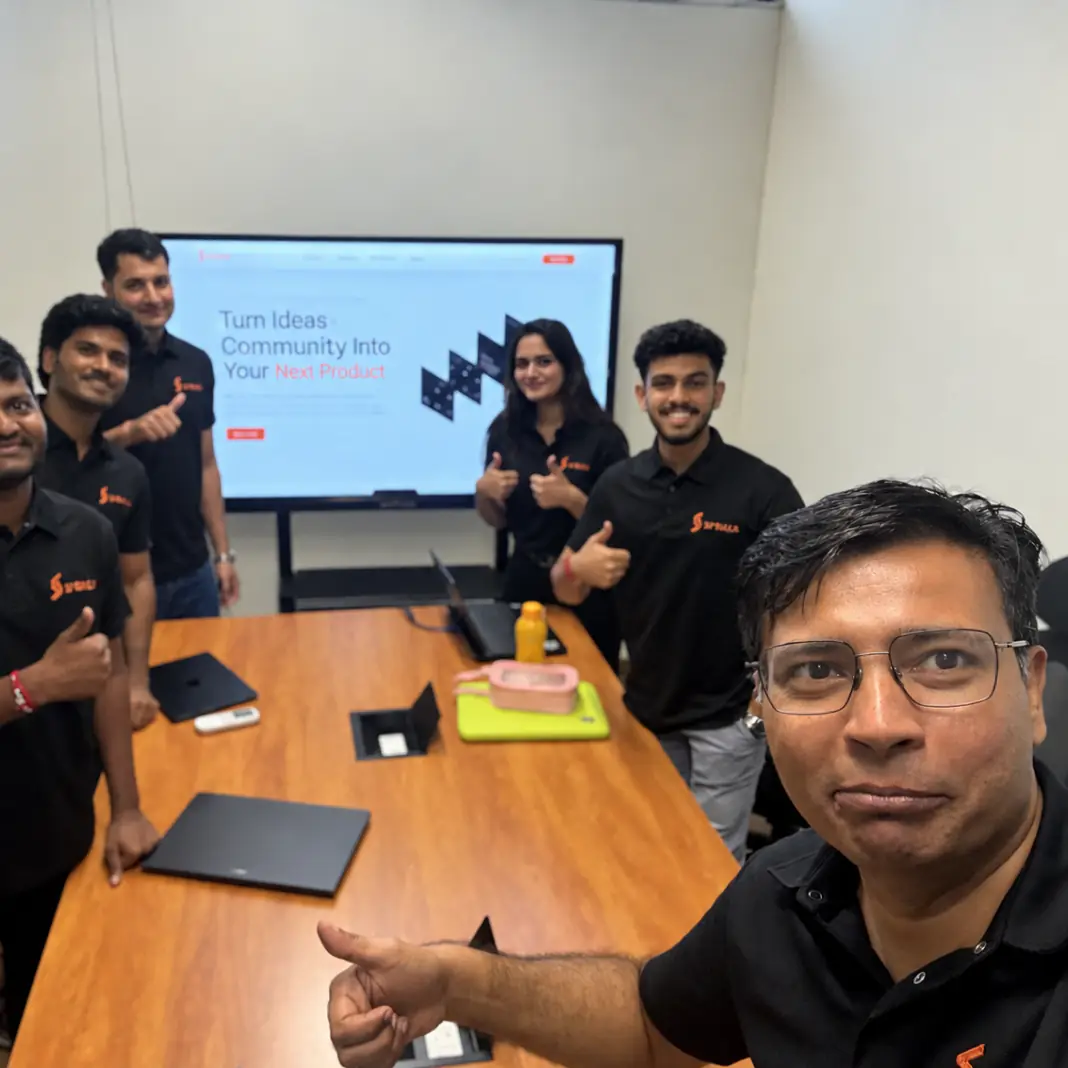
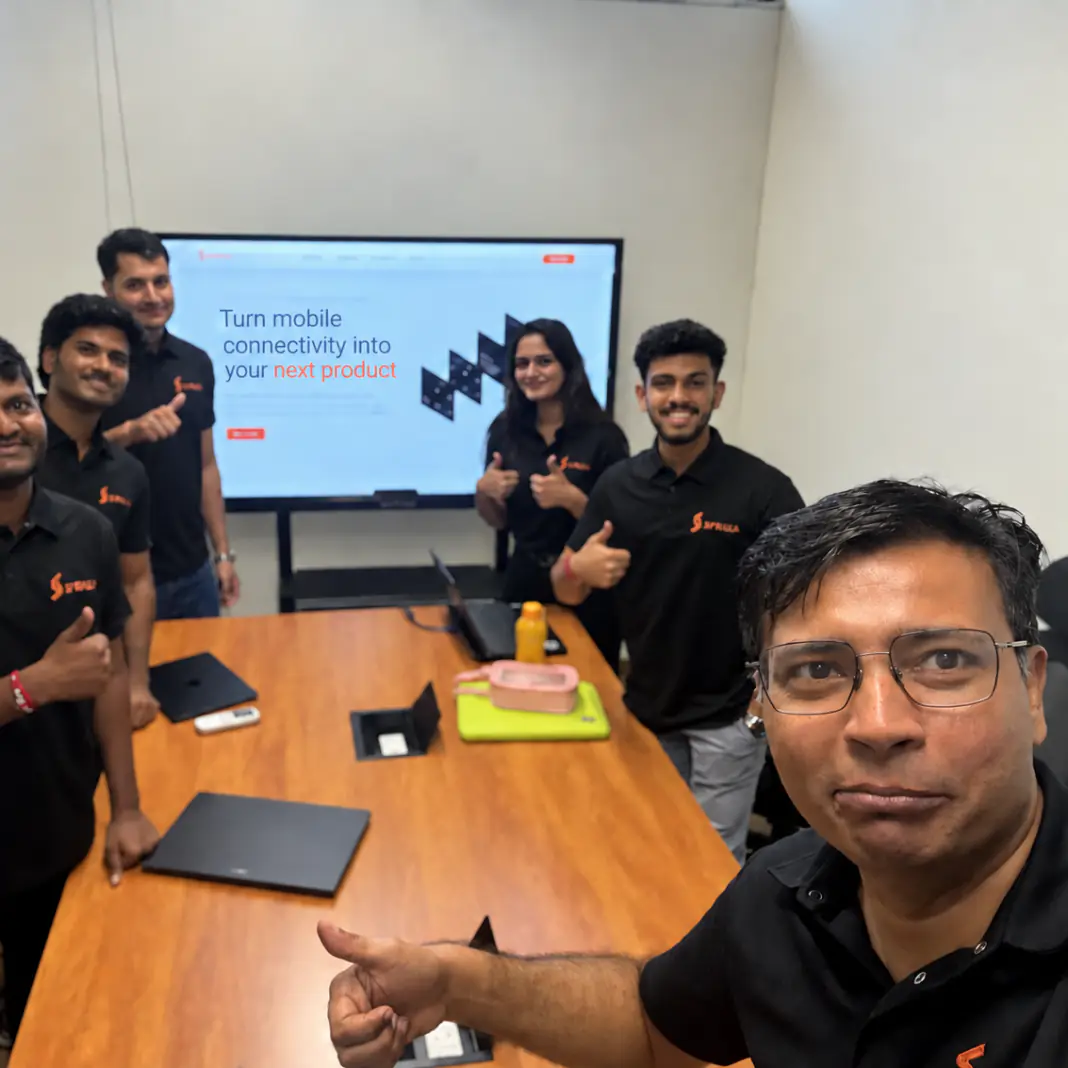
Careers hero: replace the office selfie with the updated-screen version
Same square crop. Referenced with ?v= because /images is cached for 30
days under a stable name.

Changed region(s): [[0.2163, 0.2781, 0.3708, 0.3708], [0.927, 0.4635, 0.9579, 0.4944], [0.8961, 0.9888, 0.927, 1.0]]

diff --git a/src/partials/careers.html b/src/partials/careers.html
@@ -44,7 +44,7 @@
 				<div class="elementor-widget-container">
 							<div class="elementor-image-carousel-wrapper swiper" role="region" aria-roledescription="carousel" aria-label="Image Carousel" dir="ltr">
 			<div class="elementor-image-carousel swiper-wrapper" aria-live="off">
-								<div class="swiper-slide" role="group" aria-roledescription="slide" aria-label="1 of 6"><figure class="swiper-slide-inner"><img decoding="async" class="swiper-slide-image" src="/images/careers/team-5.webp" alt="The Spenza team playing foosball" width="1068" height="1068"></figure></div><div class="swiper-slide" role="group" aria-roledescription="slide" aria-label="2 of 6"><figure class="swiper-slide-inner"><img decoding="async" class="swiper-slide-image" src="/images/careers/team-1.webp" alt="The Spenza team giving a thumbs up in the meeting room" width="1068" height="1068"></figure></div><div class="swiper-slide" role="group" aria-roledescription="slide" aria-label="3 of 6"><figure class="swiper-slide-inner"><img decoding="async" class="swiper-slide-image" src="/images/careers/team-4.webp" alt="The Spenza team at a table in the cafe" width="1068" height="1068"></figure></div><div class="swiper-slide" role="group" aria-roledescription="slide" aria-label="4 of 6"><figure class="swiper-slide-inner"><img decoding="async" class="swiper-slide-image" src="/images/careers/team-3.webp" alt="The Spenza team watching a presentation in the meeting room" width="1068" height="1068"></figure></div><div class="swiper-slide" role="group" aria-roledescription="slide" aria-label="5 of 6"><figure class="swiper-slide-inner"><img decoding="async" class="swiper-slide-image" src="/images/careers/team-6.webp" alt="The Spenza team seated together in a row" width="1068" height="1068"></figure></div><div class="swiper-slide" role="group" aria-roledescription="slide" aria-label="6 of 6"><figure class="swiper-slide-inner"><img decoding="async" class="swiper-slide-image" src="/images/careers/team-2.webp" alt="The Spenza team in a product review around the meeting table" width="1068" height="1068"></figure></div>			</div>
+								<div class="swiper-slide" role="group" aria-roledescription="slide" aria-label="1 of 6"><figure class="swiper-slide-inner"><img decoding="async" class="swiper-slide-image" src="/images/careers/team-5.webp" alt="The Spenza team playing foosball" width="1068" height="1068"></figure></div><div class="swiper-slide" role="group" aria-roledescription="slide" aria-label="2 of 6"><figure class="swiper-slide-inner"><img decoding="async" class="swiper-slide-image" src="/images/careers/team-1.webp?v=4a832901" alt="The Spenza team giving a thumbs up in the meeting room" width="1068" height="1068"></figure></div><div class="swiper-slide" role="group" aria-roledescription="slide" aria-label="3 of 6"><figure class="swiper-slide-inner"><img decoding="async" class="swiper-slide-image" src="/images/careers/team-4.webp" alt="The Spenza team at a table in the cafe" width="1068" height="1068"></figure></div><div class="swiper-slide" role="group" aria-roledescription="slide" aria-label="4 of 6"><figure class="swiper-slide-inner"><img decoding="async" class="swiper-slide-image" src="/images/careers/team-3.webp" alt="The Spenza team watching a presentation in the meeting room" width="1068" height="1068"></figure></div><div class="swiper-slide" role="group" aria-roledescription="slide" aria-label="5 of 6"><figure class="swiper-slide-inner"><img decoding="async" class="swiper-slide-image" src="/images/careers/team-6.webp" alt="The Spenza team seated together in a row" width="1068" height="1068"></figure></div><div class="swiper-slide" role="group" aria-roledescription="slide" aria-label="6 of 6"><figure class="swiper-slide-inner"><img decoding="async" class="swiper-slide-image" src="/images/careers/team-2.webp" alt="The Spenza team in a product review around the meeting table" width="1068" height="1068"></figure></div>			</div>
 							
 									</div>
 						</div>
